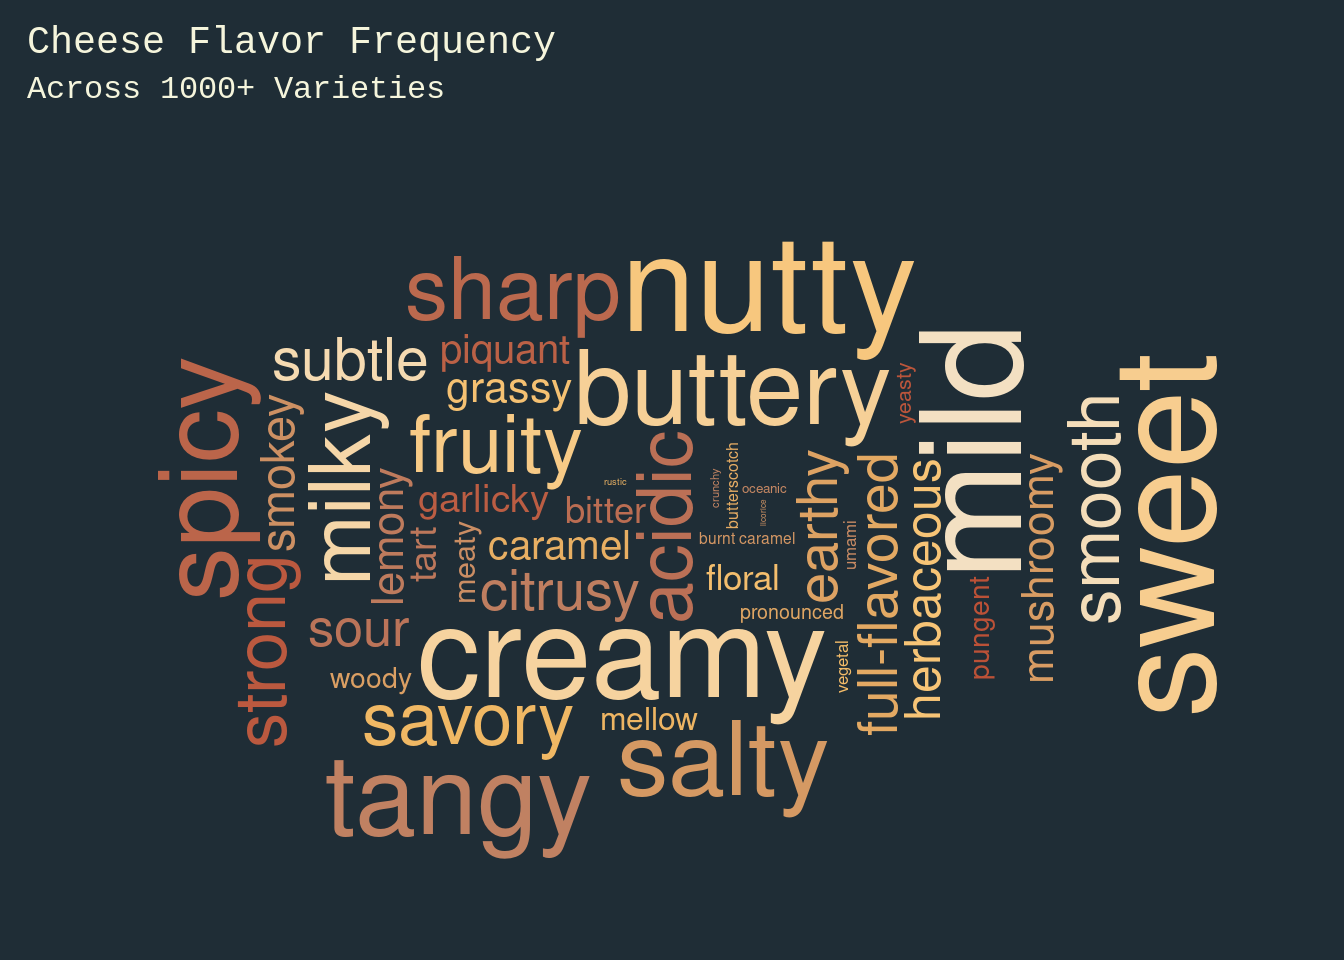
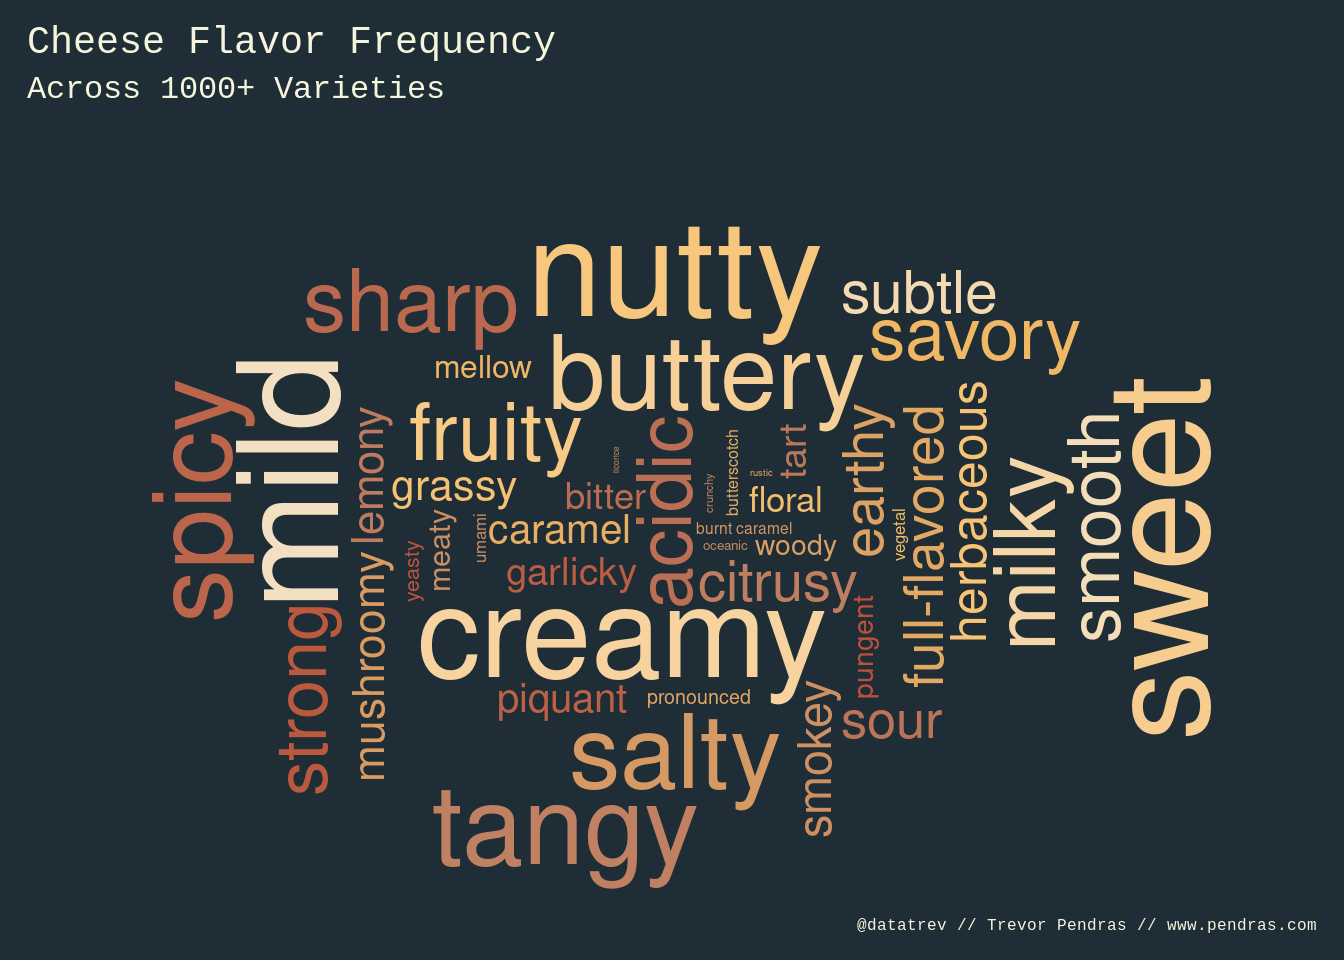
Built site for gh-pages

diff --git a/tidytuesday2024/tidy23.html b/tidytuesday2024/tidy23.html
@@ -276,7 +276,9 @@ pre > code.sourceCode > span > a:first-child::before { text-decoration: underlin
 <span id="cb3-2"><a href="#cb3-2" aria-hidden="true" tabindex="-1"></a>fill_color <span class="ot">&lt;-</span> <span class="st">"#1f2d36"</span></span>
 <span id="cb3-3"><a href="#cb3-3" aria-hidden="true" tabindex="-1"></a></span>
 <span id="cb3-4"><a href="#cb3-4" aria-hidden="true" tabindex="-1"></a>palette_aroma <span class="ot">&lt;-</span> paletteer<span class="sc">::</span><span class="fu">paletteer_c</span>(<span class="st">"ggthemes::Classic Area-Brown"</span>, <span class="at">n =</span> <span class="dv">39</span>)</span>
-<span id="cb3-5"><a href="#cb3-5" aria-hidden="true" tabindex="-1"></a>palette_flavor <span class="ot">&lt;-</span> paletteer<span class="sc">::</span><span class="fu">paletteer_c</span>(<span class="st">"ggthemes::Classic Area-Brown"</span>, <span class="at">n =</span> <span class="dv">45</span>)</span></code><button title="Copy to Clipboard" class="code-copy-button"><i class="bi"></i></button></pre></div>
+<span id="cb3-5"><a href="#cb3-5" aria-hidden="true" tabindex="-1"></a>palette_flavor <span class="ot">&lt;-</span> paletteer<span class="sc">::</span><span class="fu">paletteer_c</span>(<span class="st">"ggthemes::Classic Area-Brown"</span>, <span class="at">n =</span> <span class="dv">45</span>)</span>
+<span id="cb3-6"><a href="#cb3-6" aria-hidden="true" tabindex="-1"></a></span>
+<span id="cb3-7"><a href="#cb3-7" aria-hidden="true" tabindex="-1"></a>caption_str <span class="ot">&lt;-</span> <span class="st">"@datatrev // Trevor Pendras // www.pendras.com"</span></span></code><button title="Copy to Clipboard" class="code-copy-button"><i class="bi"></i></button></pre></div>
 </div>
 </section>
 <section id="script-theme" class="level3">
@@ -296,22 +298,24 @@ pre > code.sourceCode > span > a:first-child::before { text-decoration: underlin
 <span id="cb4-12"><a href="#cb4-12" aria-hidden="true" tabindex="-1"></a>  <span class="at">axis.title.y =</span> <span class="fu">element_text</span>(<span class="at">margin =</span> <span class="fu">margin</span>(<span class="dv">0</span>, <span class="dv">10</span>, <span class="dv">0</span>, <span class="dv">0</span>)),</span>
 <span id="cb4-13"><a href="#cb4-13" aria-hidden="true" tabindex="-1"></a>  <span class="at">plot.title =</span> <span class="fu">element_text</span>(<span class="at">hjust =</span> <span class="dv">1</span>),</span>
 <span id="cb4-14"><a href="#cb4-14" aria-hidden="true" tabindex="-1"></a>  <span class="at">plot.title.position =</span> <span class="st">"plot"</span>,</span>
-<span id="cb4-15"><a href="#cb4-15" aria-hidden="true" tabindex="-1"></a>  <span class="at">plot.subtitle =</span> <span class="fu">element_text</span>(<span class="at">hjust =</span> <span class="dv">1</span>),</span>
-<span id="cb4-16"><a href="#cb4-16" aria-hidden="true" tabindex="-1"></a>  <span class="at">plot.background =</span> <span class="fu">element_rect</span>(<span class="at">fill =</span> fill_color, <span class="at">color =</span> <span class="cn">NA</span>),</span>
-<span id="cb4-17"><a href="#cb4-17" aria-hidden="true" tabindex="-1"></a>  <span class="at">plot.margin =</span> <span class="fu">margin</span>(<span class="fu">rep</span>(<span class="dv">10</span>, <span class="dv">4</span>)),</span>
-<span id="cb4-18"><a href="#cb4-18" aria-hidden="true" tabindex="-1"></a>  <span class="at">panel.background =</span> <span class="fu">element_rect</span>(<span class="at">fill =</span> fill_color, <span class="at">color =</span> <span class="cn">NA</span>),</span>
-<span id="cb4-19"><a href="#cb4-19" aria-hidden="true" tabindex="-1"></a>  <span class="at">legend.background =</span> <span class="fu">element_rect</span>(<span class="at">fill =</span> fill_color, <span class="at">color =</span> <span class="cn">NA</span>),</span>
-<span id="cb4-20"><a href="#cb4-20" aria-hidden="true" tabindex="-1"></a>  <span class="at">legend.key =</span> <span class="fu">element_rect</span>(<span class="at">fill =</span> fill_color, <span class="at">color =</span> <span class="cn">NA</span>),</span>
-<span id="cb4-21"><a href="#cb4-21" aria-hidden="true" tabindex="-1"></a>  <span class="at">strip.background =</span> <span class="fu">element_rect</span>(<span class="at">fill =</span> fill_color, <span class="at">color =</span> <span class="cn">NA</span>),</span>
-<span id="cb4-22"><a href="#cb4-22" aria-hidden="true" tabindex="-1"></a>  <span class="at">axis.text.x =</span> <span class="fu">element_text</span>(<span class="at">angle =</span> <span class="dv">90</span>, <span class="at">vjust =</span> .<span class="dv">5</span>, <span class="at">hjust =</span> <span class="dv">1</span>),</span>
-<span id="cb4-23"><a href="#cb4-23" aria-hidden="true" tabindex="-1"></a>  <span class="at">legend.text =</span> <span class="fu">element_blank</span>(),</span>
-<span id="cb4-24"><a href="#cb4-24" aria-hidden="true" tabindex="-1"></a>  <span class="at">legend.ticks =</span> <span class="fu">element_blank</span>(),</span>
-<span id="cb4-25"><a href="#cb4-25" aria-hidden="true" tabindex="-1"></a>  <span class="at">legend.location =</span> <span class="st">"plot"</span>,</span>
-<span id="cb4-26"><a href="#cb4-26" aria-hidden="true" tabindex="-1"></a>  <span class="at">legend.position =</span> <span class="st">"top"</span>,</span>
-<span id="cb4-27"><a href="#cb4-27" aria-hidden="true" tabindex="-1"></a>  <span class="at">legend.direction =</span> <span class="st">"horizontal"</span>,</span>
-<span id="cb4-28"><a href="#cb4-28" aria-hidden="true" tabindex="-1"></a>  <span class="at">legend.justification =</span> <span class="st">"right"</span>,</span>
-<span id="cb4-29"><a href="#cb4-29" aria-hidden="true" tabindex="-1"></a>  <span class="at">legend.margin =</span> <span class="fu">margin</span>(<span class="dv">0</span>, <span class="dv">0</span>, <span class="dv">0</span>, <span class="dv">0</span>)</span>
-<span id="cb4-30"><a href="#cb4-30" aria-hidden="true" tabindex="-1"></a>  )</span></code><button title="Copy to Clipboard" class="code-copy-button"><i class="bi"></i></button></pre></div>
+<span id="cb4-15"><a href="#cb4-15" aria-hidden="true" tabindex="-1"></a>  <span class="at">plot.caption.position =</span> <span class="st">"plot"</span>,</span>
+<span id="cb4-16"><a href="#cb4-16" aria-hidden="true" tabindex="-1"></a>  <span class="at">plot.subtitle =</span> <span class="fu">element_text</span>(<span class="at">hjust =</span> <span class="dv">1</span>),</span>
+<span id="cb4-17"><a href="#cb4-17" aria-hidden="true" tabindex="-1"></a>  <span class="at">plot.caption =</span> <span class="fu">element_text</span>(<span class="at">size =</span> <span class="dv">6</span>, <span class="at">color =</span> text_color, <span class="at">hjust =</span> <span class="dv">1</span>),</span>
+<span id="cb4-18"><a href="#cb4-18" aria-hidden="true" tabindex="-1"></a>  <span class="at">plot.background =</span> <span class="fu">element_rect</span>(<span class="at">fill =</span> fill_color, <span class="at">color =</span> <span class="cn">NA</span>),</span>
+<span id="cb4-19"><a href="#cb4-19" aria-hidden="true" tabindex="-1"></a>  <span class="at">plot.margin =</span> <span class="fu">margin</span>(<span class="fu">rep</span>(<span class="dv">10</span>, <span class="dv">4</span>)),</span>
+<span id="cb4-20"><a href="#cb4-20" aria-hidden="true" tabindex="-1"></a>  <span class="at">panel.background =</span> <span class="fu">element_rect</span>(<span class="at">fill =</span> fill_color, <span class="at">color =</span> <span class="cn">NA</span>),</span>
+<span id="cb4-21"><a href="#cb4-21" aria-hidden="true" tabindex="-1"></a>  <span class="at">legend.background =</span> <span class="fu">element_rect</span>(<span class="at">fill =</span> fill_color, <span class="at">color =</span> <span class="cn">NA</span>),</span>
+<span id="cb4-22"><a href="#cb4-22" aria-hidden="true" tabindex="-1"></a>  <span class="at">legend.key =</span> <span class="fu">element_rect</span>(<span class="at">fill =</span> fill_color, <span class="at">color =</span> <span class="cn">NA</span>),</span>
+<span id="cb4-23"><a href="#cb4-23" aria-hidden="true" tabindex="-1"></a>  <span class="at">strip.background =</span> <span class="fu">element_rect</span>(<span class="at">fill =</span> fill_color, <span class="at">color =</span> <span class="cn">NA</span>),</span>
+<span id="cb4-24"><a href="#cb4-24" aria-hidden="true" tabindex="-1"></a>  <span class="at">axis.text.x =</span> <span class="fu">element_text</span>(<span class="at">angle =</span> <span class="dv">90</span>, <span class="at">vjust =</span> .<span class="dv">5</span>, <span class="at">hjust =</span> <span class="dv">1</span>),</span>
+<span id="cb4-25"><a href="#cb4-25" aria-hidden="true" tabindex="-1"></a>  <span class="at">legend.text =</span> <span class="fu">element_blank</span>(),</span>
+<span id="cb4-26"><a href="#cb4-26" aria-hidden="true" tabindex="-1"></a>  <span class="at">legend.ticks =</span> <span class="fu">element_blank</span>(),</span>
+<span id="cb4-27"><a href="#cb4-27" aria-hidden="true" tabindex="-1"></a>  <span class="at">legend.location =</span> <span class="st">"plot"</span>,</span>
+<span id="cb4-28"><a href="#cb4-28" aria-hidden="true" tabindex="-1"></a>  <span class="at">legend.position =</span> <span class="st">"top"</span>,</span>
+<span id="cb4-29"><a href="#cb4-29" aria-hidden="true" tabindex="-1"></a>  <span class="at">legend.direction =</span> <span class="st">"horizontal"</span>,</span>
+<span id="cb4-30"><a href="#cb4-30" aria-hidden="true" tabindex="-1"></a>  <span class="at">legend.justification =</span> <span class="st">"right"</span>,</span>
+<span id="cb4-31"><a href="#cb4-31" aria-hidden="true" tabindex="-1"></a>  <span class="at">legend.margin =</span> <span class="fu">margin</span>(<span class="dv">0</span>, <span class="dv">0</span>, <span class="dv">0</span>, <span class="dv">0</span>)</span>
+<span id="cb4-32"><a href="#cb4-32" aria-hidden="true" tabindex="-1"></a>  )</span></code><button title="Copy to Clipboard" class="code-copy-button"><i class="bi"></i></button></pre></div>
 </div>
 </section>
 </section>
@@ -507,8 +511,9 @@ pre > code.sourceCode > span > a:first-child::before { text-decoration: underlin
 <span id="cb11-10"><a href="#cb11-10" aria-hidden="true" tabindex="-1"></a>    <span class="at">y =</span> <span class="st">"Number of Varieties"</span>, </span>
 <span id="cb11-11"><a href="#cb11-11" aria-hidden="true" tabindex="-1"></a>    <span class="at">fill =</span> <span class="st">"Sharpness"</span>,</span>
 <span id="cb11-12"><a href="#cb11-12" aria-hidden="true" tabindex="-1"></a>    <span class="at">title =</span> <span class="st">"Cheese Flavor Frequency"</span>,</span>
-<span id="cb11-13"><a href="#cb11-13" aria-hidden="true" tabindex="-1"></a>    <span class="at">subtitle =</span> <span class="st">"Across 1000+ Varieties"</span></span>
-<span id="cb11-14"><a href="#cb11-14" aria-hidden="true" tabindex="-1"></a>  )</span></code><button title="Copy to Clipboard" class="code-copy-button"><i class="bi"></i></button></pre></div>
+<span id="cb11-13"><a href="#cb11-13" aria-hidden="true" tabindex="-1"></a>    <span class="at">subtitle =</span> <span class="st">"Across 1000+ Varieties"</span>,</span>
+<span id="cb11-14"><a href="#cb11-14" aria-hidden="true" tabindex="-1"></a>    <span class="at">caption =</span> caption_str</span>
+<span id="cb11-15"><a href="#cb11-15" aria-hidden="true" tabindex="-1"></a>  )</span></code><button title="Copy to Clipboard" class="code-copy-button"><i class="bi"></i></button></pre></div>
 <div class="cell-output-display">
 <div class="quarto-figure quarto-figure-center">
 <figure class="figure">
@@ -534,8 +539,9 @@ pre > code.sourceCode > span > a:first-child::before { text-decoration: underlin
 <span id="cb12-11"><a href="#cb12-11" aria-hidden="true" tabindex="-1"></a>    <span class="at">y =</span> <span class="st">"Number of Varieties"</span>, </span>
 <span id="cb12-12"><a href="#cb12-12" aria-hidden="true" tabindex="-1"></a>    <span class="at">fill =</span> <span class="st">"Pungency"</span>,</span>
 <span id="cb12-13"><a href="#cb12-13" aria-hidden="true" tabindex="-1"></a>    <span class="at">title =</span> <span class="st">"Cheese Aroma Frequency"</span>,</span>
-<span id="cb12-14"><a href="#cb12-14" aria-hidden="true" tabindex="-1"></a>    <span class="at">subtitle =</span> <span class="st">"Across 1000+ Varieties"</span></span>
-<span id="cb12-15"><a href="#cb12-15" aria-hidden="true" tabindex="-1"></a>    )</span></code><button title="Copy to Clipboard" class="code-copy-button"><i class="bi"></i></button></pre></div>
+<span id="cb12-14"><a href="#cb12-14" aria-hidden="true" tabindex="-1"></a>    <span class="at">subtitle =</span> <span class="st">"Across 1000+ Varieties"</span>,</span>
+<span id="cb12-15"><a href="#cb12-15" aria-hidden="true" tabindex="-1"></a>    <span class="at">caption =</span> caption_str</span>
+<span id="cb12-16"><a href="#cb12-16" aria-hidden="true" tabindex="-1"></a>    )</span></code><button title="Copy to Clipboard" class="code-copy-button"><i class="bi"></i></button></pre></div>
 <div class="cell-output-display">
 <div class="quarto-figure quarto-figure-center">
 <figure class="figure">
@@ -562,13 +568,14 @@ pre > code.sourceCode > span > a:first-child::before { text-decoration: underlin
 <span id="cb13-9"><a href="#cb13-9" aria-hidden="true" tabindex="-1"></a>  <span class="fu">scale_size_area</span>(<span class="at">max_size =</span> <span class="dv">40</span>) <span class="sc">+</span></span>
 <span id="cb13-10"><a href="#cb13-10" aria-hidden="true" tabindex="-1"></a>  <span class="fu">labs</span>(</span>
 <span id="cb13-11"><a href="#cb13-11" aria-hidden="true" tabindex="-1"></a>    <span class="at">title =</span> <span class="st">"Cheese Flavor Frequency"</span>,</span>
-<span id="cb13-12"><a href="#cb13-12" aria-hidden="true" tabindex="-1"></a>    <span class="at">subtitle =</span> <span class="st">"Across 1000+ Varieties"</span></span>
-<span id="cb13-13"><a href="#cb13-13" aria-hidden="true" tabindex="-1"></a>  ) <span class="sc">+</span></span>
-<span id="cb13-14"><a href="#cb13-14" aria-hidden="true" tabindex="-1"></a>  <span class="fu">scale_color_gradientn</span>(<span class="at">colors =</span> palette_flavor) <span class="sc">+</span></span>
-<span id="cb13-15"><a href="#cb13-15" aria-hidden="true" tabindex="-1"></a>  <span class="fu">theme</span>(</span>
-<span id="cb13-16"><a href="#cb13-16" aria-hidden="true" tabindex="-1"></a>    <span class="at">plot.title =</span> <span class="fu">element_text</span>(<span class="at">hjust =</span> <span class="dv">0</span>),</span>
-<span id="cb13-17"><a href="#cb13-17" aria-hidden="true" tabindex="-1"></a>    <span class="at">plot.subtitle =</span> <span class="fu">element_text</span>(<span class="at">hjust =</span> <span class="dv">0</span>)</span>
-<span id="cb13-18"><a href="#cb13-18" aria-hidden="true" tabindex="-1"></a>    )</span></code><button title="Copy to Clipboard" class="code-copy-button"><i class="bi"></i></button></pre></div>
+<span id="cb13-12"><a href="#cb13-12" aria-hidden="true" tabindex="-1"></a>    <span class="at">subtitle =</span> <span class="st">"Across 1000+ Varieties"</span>,</span>
+<span id="cb13-13"><a href="#cb13-13" aria-hidden="true" tabindex="-1"></a>    <span class="at">caption =</span> caption_str</span>
+<span id="cb13-14"><a href="#cb13-14" aria-hidden="true" tabindex="-1"></a>  ) <span class="sc">+</span></span>
+<span id="cb13-15"><a href="#cb13-15" aria-hidden="true" tabindex="-1"></a>  <span class="fu">scale_color_gradientn</span>(<span class="at">colors =</span> palette_flavor) <span class="sc">+</span></span>
+<span id="cb13-16"><a href="#cb13-16" aria-hidden="true" tabindex="-1"></a>  <span class="fu">theme</span>(</span>
+<span id="cb13-17"><a href="#cb13-17" aria-hidden="true" tabindex="-1"></a>    <span class="at">plot.title =</span> <span class="fu">element_text</span>(<span class="at">hjust =</span> <span class="dv">0</span>),</span>
+<span id="cb13-18"><a href="#cb13-18" aria-hidden="true" tabindex="-1"></a>    <span class="at">plot.subtitle =</span> <span class="fu">element_text</span>(<span class="at">hjust =</span> <span class="dv">0</span>)</span>
+<span id="cb13-19"><a href="#cb13-19" aria-hidden="true" tabindex="-1"></a>    )</span></code><button title="Copy to Clipboard" class="code-copy-button"><i class="bi"></i></button></pre></div>
 <div class="cell-output-display">
 <div class="quarto-figure quarto-figure-center">
 <figure class="figure">
@@ -592,13 +599,14 @@ pre > code.sourceCode > span > a:first-child::before { text-decoration: underlin
 <span id="cb14-9"><a href="#cb14-9" aria-hidden="true" tabindex="-1"></a>  <span class="fu">scale_size_area</span>(<span class="at">max_size =</span> <span class="dv">40</span>) <span class="sc">+</span></span>
 <span id="cb14-10"><a href="#cb14-10" aria-hidden="true" tabindex="-1"></a>  <span class="fu">labs</span>(</span>
 <span id="cb14-11"><a href="#cb14-11" aria-hidden="true" tabindex="-1"></a>    <span class="at">title =</span> <span class="st">"Cheese Aroma Frequency"</span>,</span>
-<span id="cb14-12"><a href="#cb14-12" aria-hidden="true" tabindex="-1"></a>    <span class="at">subtitle =</span> <span class="st">"Across 1000+ Varieties"</span></span>
-<span id="cb14-13"><a href="#cb14-13" aria-hidden="true" tabindex="-1"></a>    ) <span class="sc">+</span></span>
-<span id="cb14-14"><a href="#cb14-14" aria-hidden="true" tabindex="-1"></a>  <span class="fu">scale_color_gradientn</span>(<span class="at">colors =</span> palette_aroma) <span class="sc">+</span></span>
-<span id="cb14-15"><a href="#cb14-15" aria-hidden="true" tabindex="-1"></a>  <span class="fu">theme</span>(</span>
-<span id="cb14-16"><a href="#cb14-16" aria-hidden="true" tabindex="-1"></a>    <span class="at">plot.title =</span> <span class="fu">element_text</span>(<span class="at">hjust =</span> <span class="dv">0</span>),</span>
-<span id="cb14-17"><a href="#cb14-17" aria-hidden="true" tabindex="-1"></a>    <span class="at">plot.subtitle =</span> <span class="fu">element_text</span>(<span class="at">hjust =</span> <span class="dv">0</span>)</span>
-<span id="cb14-18"><a href="#cb14-18" aria-hidden="true" tabindex="-1"></a>    )</span></code><button title="Copy to Clipboard" class="code-copy-button"><i class="bi"></i></button></pre></div>
+<span id="cb14-12"><a href="#cb14-12" aria-hidden="true" tabindex="-1"></a>    <span class="at">subtitle =</span> <span class="st">"Across 1000+ Varieties"</span>,</span>
+<span id="cb14-13"><a href="#cb14-13" aria-hidden="true" tabindex="-1"></a>    <span class="at">caption =</span> caption_str</span>
+<span id="cb14-14"><a href="#cb14-14" aria-hidden="true" tabindex="-1"></a>    ) <span class="sc">+</span></span>
+<span id="cb14-15"><a href="#cb14-15" aria-hidden="true" tabindex="-1"></a>  <span class="fu">scale_color_gradientn</span>(<span class="at">colors =</span> palette_aroma) <span class="sc">+</span></span>
+<span id="cb14-16"><a href="#cb14-16" aria-hidden="true" tabindex="-1"></a>  <span class="fu">theme</span>(</span>
+<span id="cb14-17"><a href="#cb14-17" aria-hidden="true" tabindex="-1"></a>    <span class="at">plot.title =</span> <span class="fu">element_text</span>(<span class="at">hjust =</span> <span class="dv">0</span>),</span>
+<span id="cb14-18"><a href="#cb14-18" aria-hidden="true" tabindex="-1"></a>    <span class="at">plot.subtitle =</span> <span class="fu">element_text</span>(<span class="at">hjust =</span> <span class="dv">0</span>)</span>
+<span id="cb14-19"><a href="#cb14-19" aria-hidden="true" tabindex="-1"></a>    )</span></code><button title="Copy to Clipboard" class="code-copy-button"><i class="bi"></i></button></pre></div>
 <div class="cell-output-display">
 <div class="quarto-figure quarto-figure-center">
 <figure class="figure">

diff --git a/index.html b/index.html
@@ -179,6 +179,7 @@ ul.task-list li input[type="checkbox"] {
 <h2 class="anchored" data-anchor-id="affordable-data-solutions">Affordable Data Solutions</h2>
 <p>Data Visualizations, Explorations, Reporting, Dashboards, Scripts, you name it we do it!</p>
 <p>No questions asked, no judgement passed. No job too small! Se habla español.</p>
+<p>Specializing in R, RStudio, Quarto, Tableau, DuckDB, MariaDB</p>
 
 
 </section>
